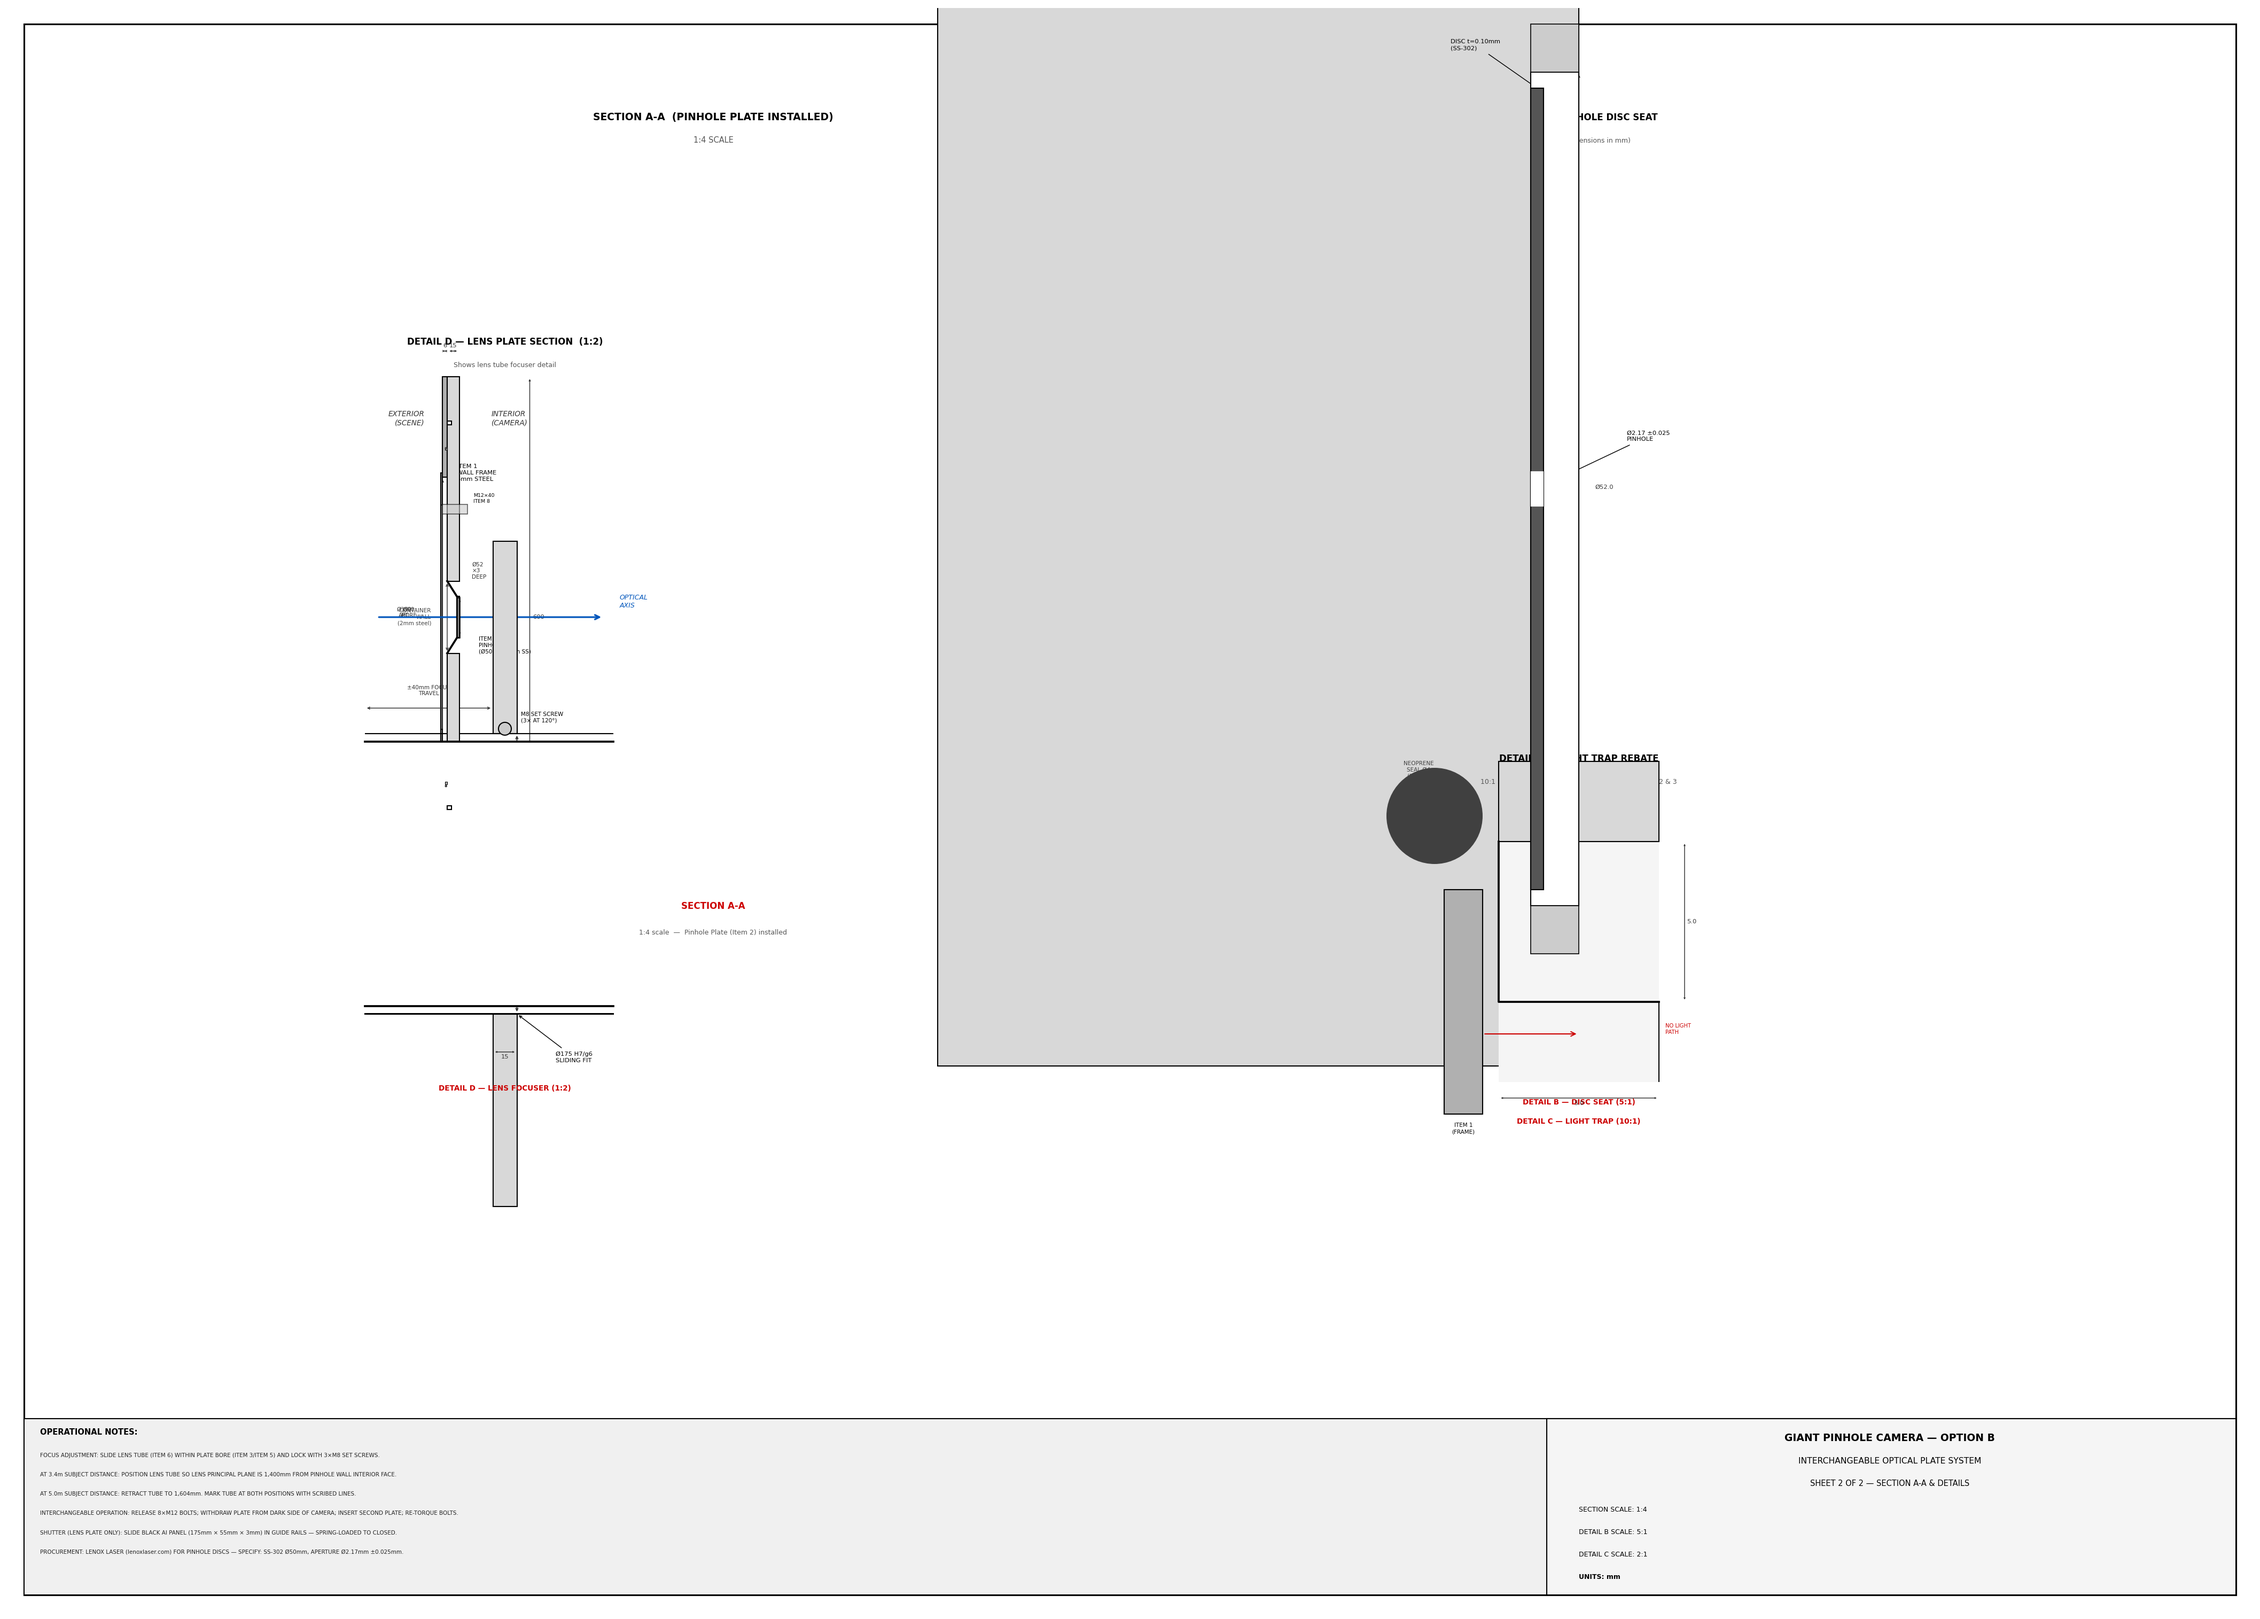
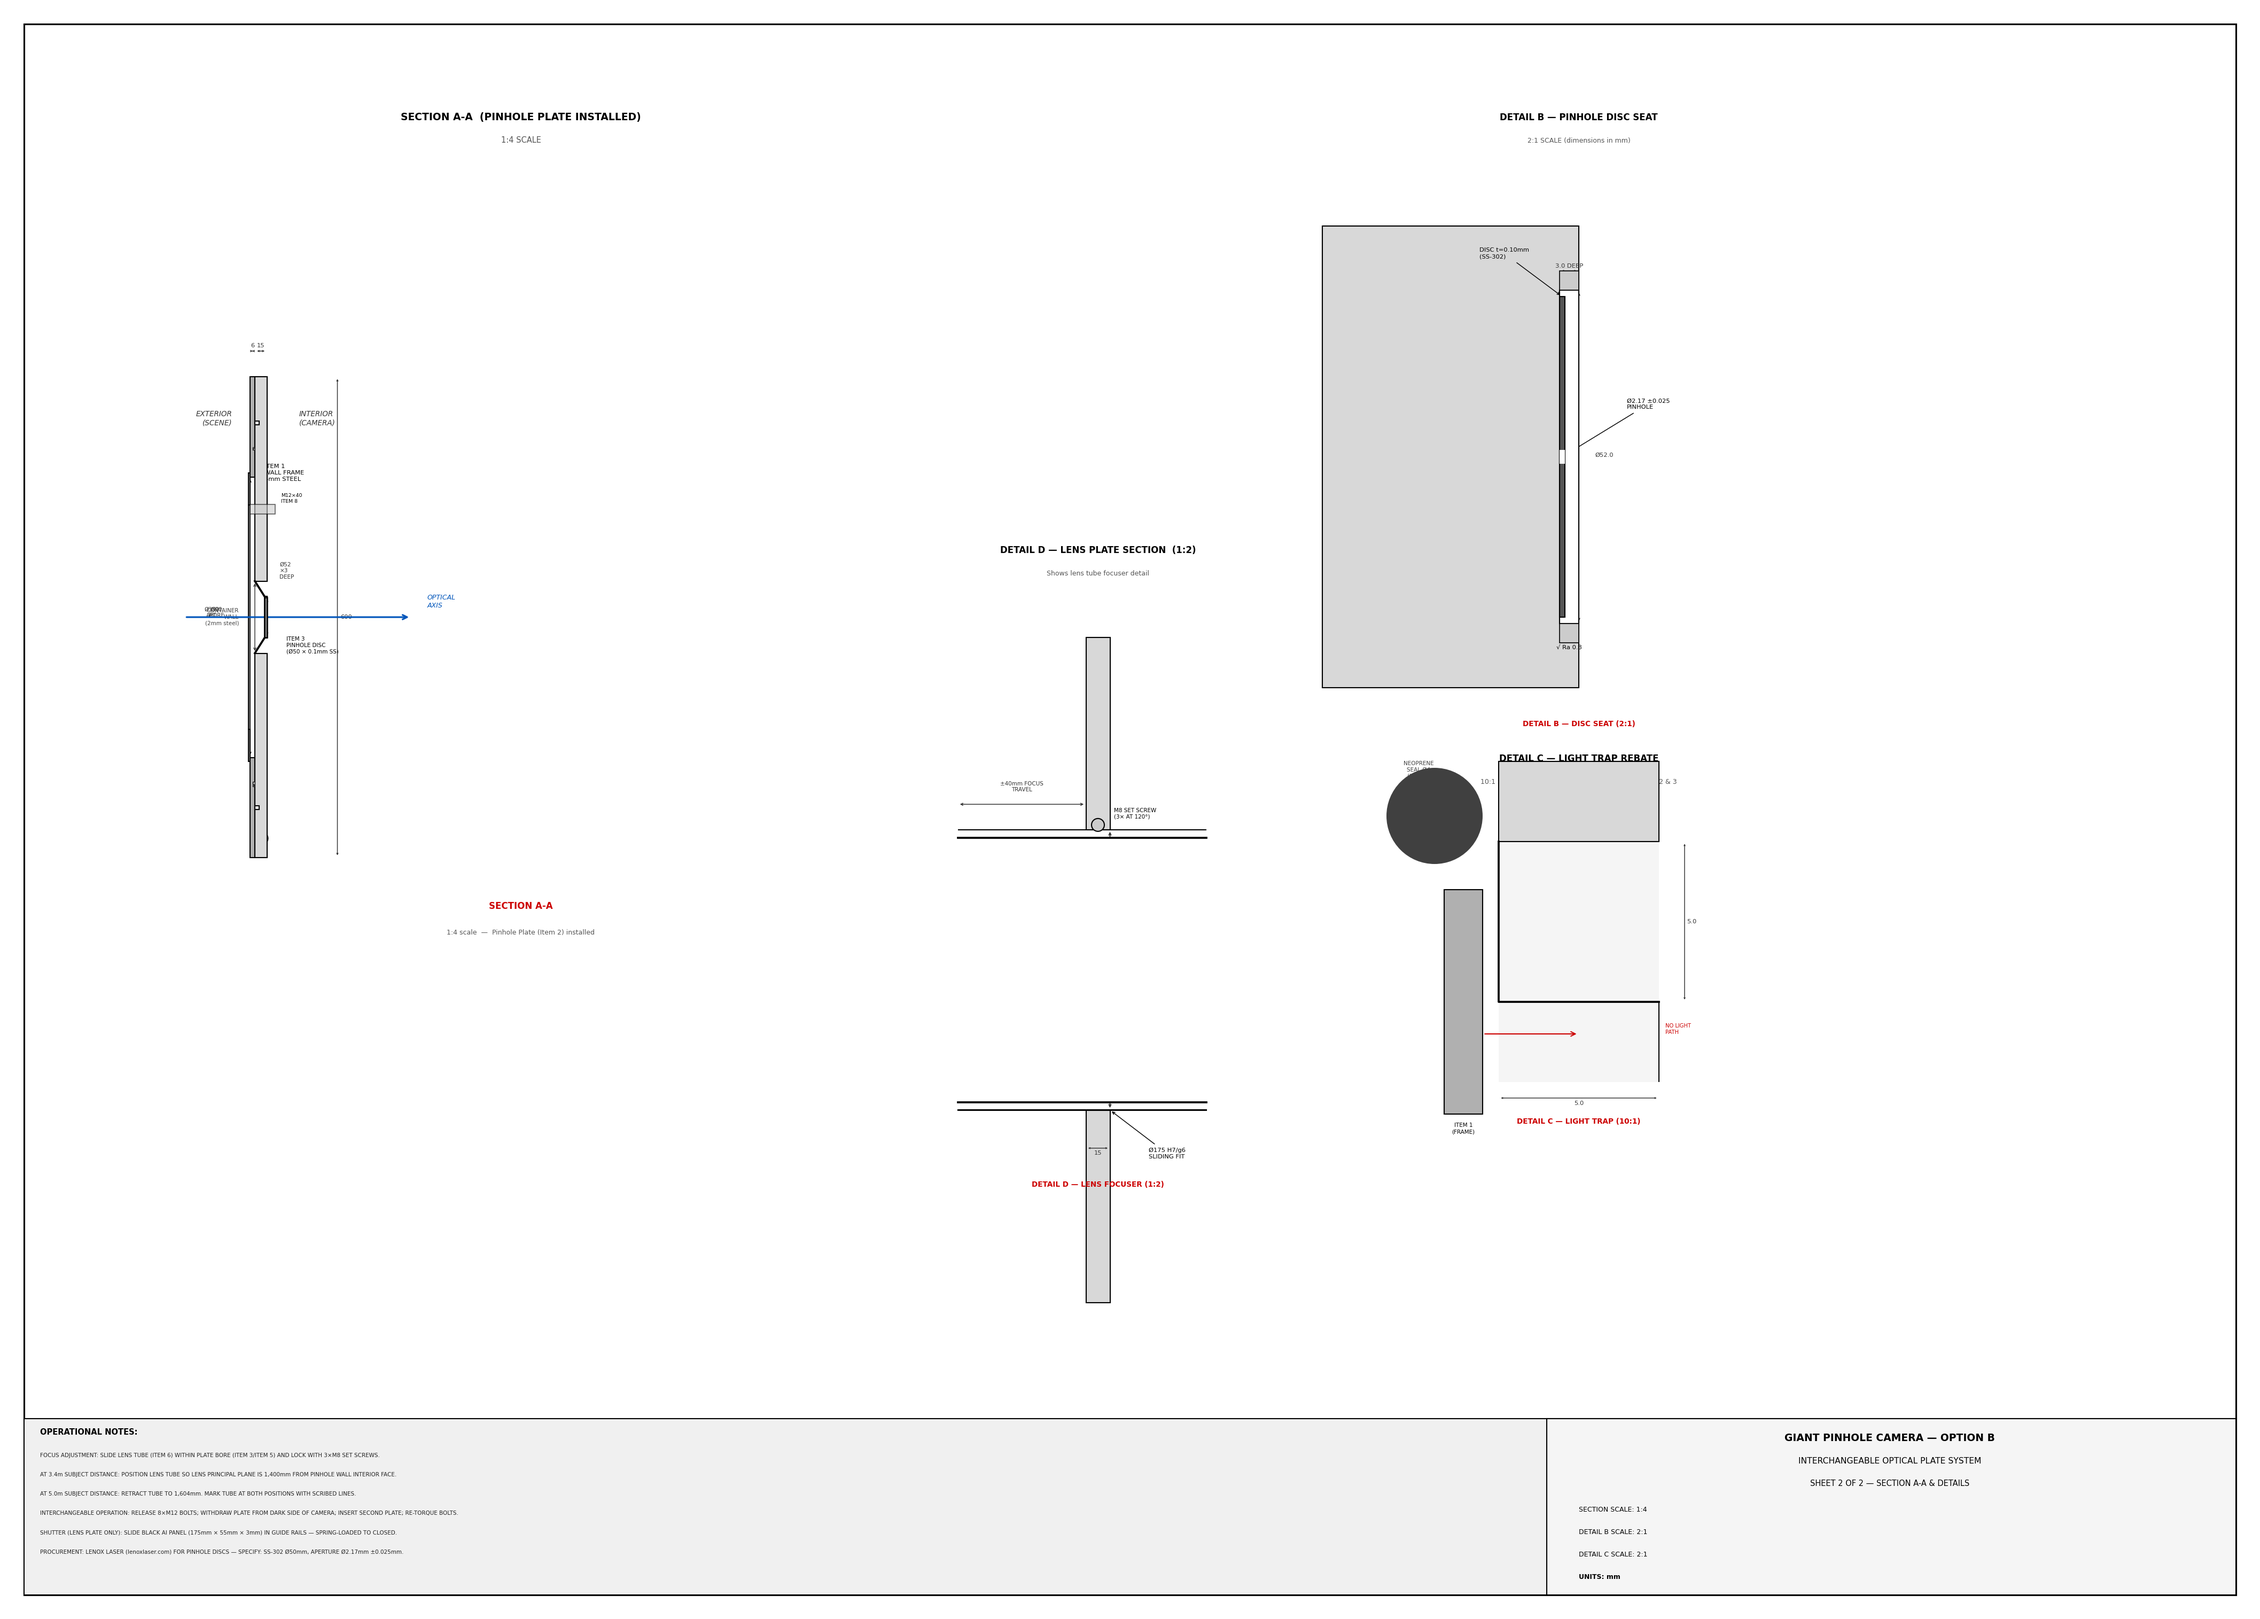
Fix plate-drawing-sheet2 layout — eliminate off-page content and overlaps
Detail B: reduce scale 5:1 → 2:1 (plate height 360→144 units; was clipping
above ylim=500). Shift centre dby=350→360.

Section A-A: shift scx=220→160 to separate from Detail D.

Detail D: move centre from (155,230) to (340,200) — eliminates overlap with
Section A-A (x gap now 140 units). Titles now relative to ddy.

diff --git a/generate_plate_drawing.py b/generate_plate_drawing.py
@@ -487,7 +487,7 @@ ax2.text(587, 53, 'GIANT PINHOLE CAMERA — OPTION B', ha='center', fontsize=9,
 ax2.text(587, 46, 'INTERCHANGEABLE OPTICAL PLATE SYSTEM', ha='center', fontsize=7.5)
 ax2.text(587, 39, 'SHEET 2 OF 2 — SECTION A-A & DETAILS', ha='center', fontsize=7)
 ax2.text(490, 31, 'SECTION SCALE: 1:4', fontsize=6)
-ax2.text(490, 24, 'DETAIL B SCALE: 5:1', fontsize=6)
+ax2.text(490, 24, 'DETAIL B SCALE: 2:1', fontsize=6)
 ax2.text(490, 17, 'DETAIL C SCALE: 2:1', fontsize=6)
 ax2.text(490, 10, 'UNITS: mm', fontsize=6, fontweight='bold')
 
@@ -501,7 +501,7 @@ SC4 = 1/4   # 1:4 scale
 def ss(mm): return mm * SC4
 
 # Section origin: centre of section at (220, 310)
-scx, scy = 220, 310
+scx, scy = 160, 310
 
 ax2.text(scx, 465, 'SECTION A-A  (PINHOLE PLATE INSTALLED)', ha='center',
          fontsize=9, fontweight='bold', color='black')
@@ -700,14 +700,14 @@ ax2.text(scx, scy - pl_half - 24, '1:4 scale  —  Pinhole Plate (Item 2) instal
 # ──────────────────────────────────────────────────────────────────────────────
 # DETAIL B: Pinhole disc seat  (5:1 scale)
 # ──────────────────────────────────────────────────────────────────────────────
-SC5 = 5/1   # 5:1 detail
+SC5 = 2.0   # 2:1 detail (was 5:1; reduced so plate fits within canvas height)
 def sb(mm): return mm * SC5
 
-dbx, dby = 490, 350  # centre of detail view
+dbx, dby = 490, 360  # centre of detail view
 
 ax2.text(dbx, 465, 'DETAIL B — PINHOLE DISC SEAT', ha='center',
          fontsize=8, fontweight='bold')
-ax2.text(dbx, 458, '5:1 SCALE (dimensions in mm)', ha='center', fontsize=6, color='#555')
+ax2.text(dbx, 458, '2:1 SCALE (dimensions in mm)', ha='center', fontsize=6, color='#555')
 
 # Draw 5:1 cross-section of the counterbore region
 # Show: plate interior face (right face), counterbore Ø52×3, disc, retaining ring groove
@@ -786,7 +786,7 @@ ax2.text(face_x - sb(PH_CB_DEP)/2, dby - cb_show_half - 8,
          '√ Ra 0.8', ha='center', fontsize=5.5, color='black')
 
 ax2.text(dbx, dby - sb(PH_CB_D/2 + 10) - 12,
-         'DETAIL B — DISC SEAT (5:1)', ha='center', fontsize=6.5,
+         'DETAIL B — DISC SEAT (2:1)', ha='center', fontsize=6.5,
          fontweight='bold', color=C_RED)
 
 # ──────────────────────────────────────────────────────────────────────────────
@@ -870,11 +870,11 @@ ax2.text(dcx, dcy - 38, 'DETAIL C — LIGHT TRAP (10:1)', ha='center', fontsize=
 SC2 = 1/2
 def sd(mm): return mm * SC2
 
-ddx, ddy = 155, 230   # centre
+ddx, ddy = 340, 200   # centre — moved right to avoid Section A-A overlap
 
-ax2.text(ddx, 395, 'DETAIL D — LENS PLATE SECTION  (1:2)', ha='center',
+ax2.text(ddx, ddy + 130, 'DETAIL D — LENS PLATE SECTION  (1:2)', ha='center',
          fontsize=8, fontweight='bold')
-ax2.text(ddx, 388, 'Shows lens tube focuser detail', ha='center', fontsize=6, color='#555')
+ax2.text(ddx, ddy + 123, 'Shows lens tube focuser detail', ha='center', fontsize=6, color='#555')
 
 # Lens plate cross-section (showing the Ø175 H7 bore with lens tube)
 pl_left_d = ddx - sd(PL_THICK/2)
